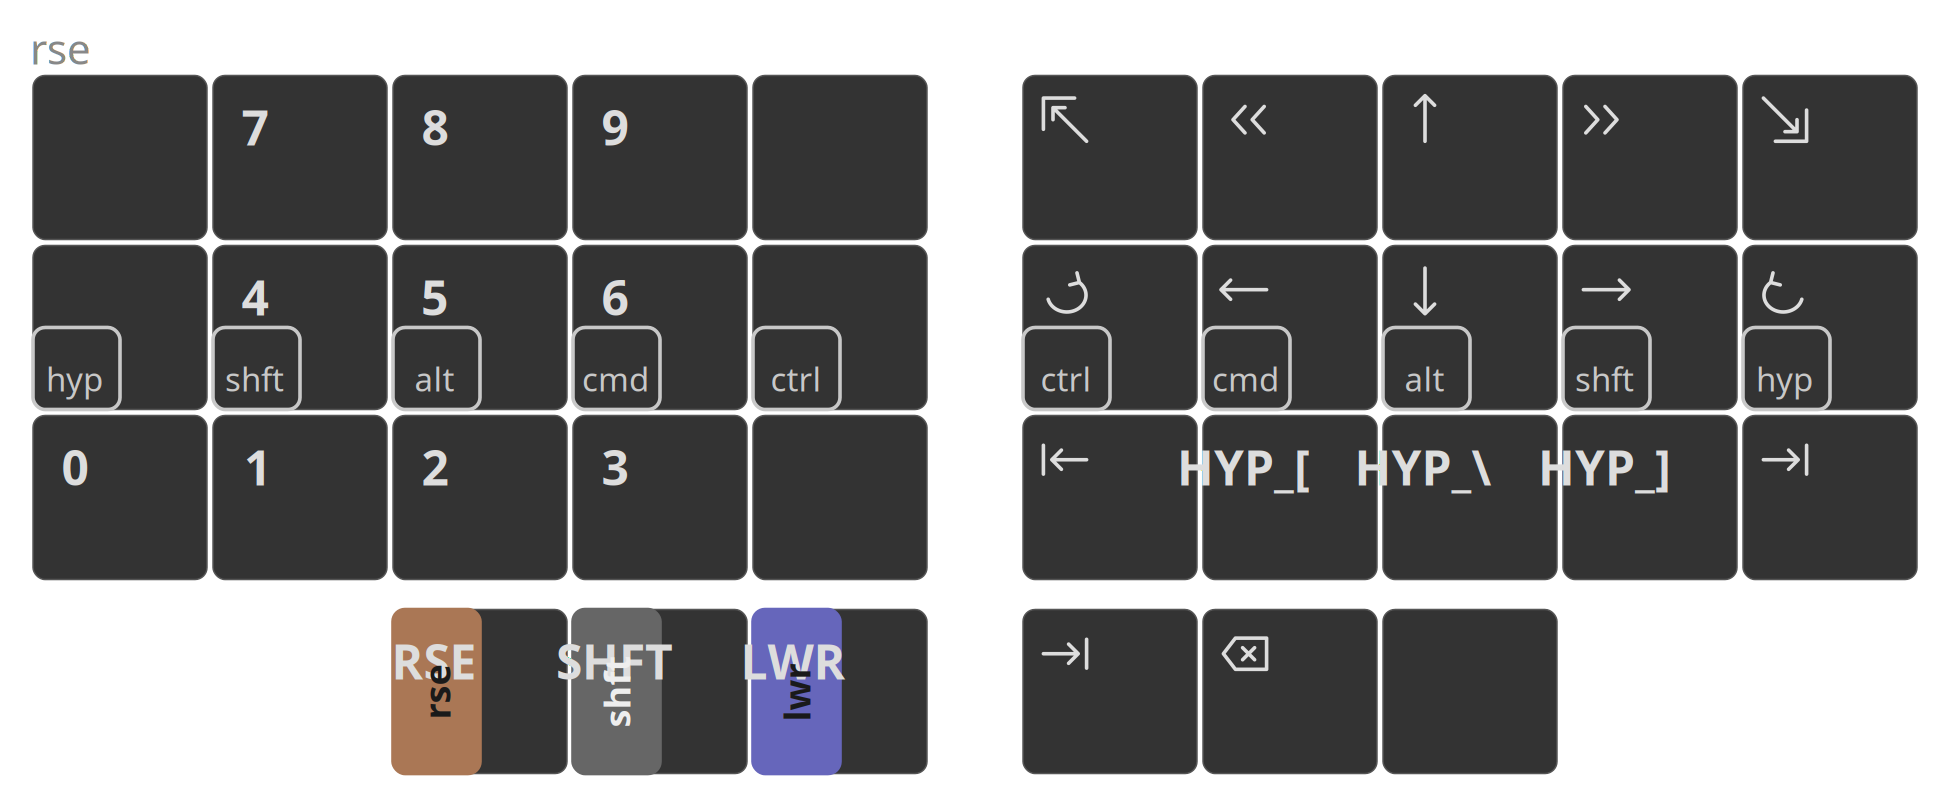
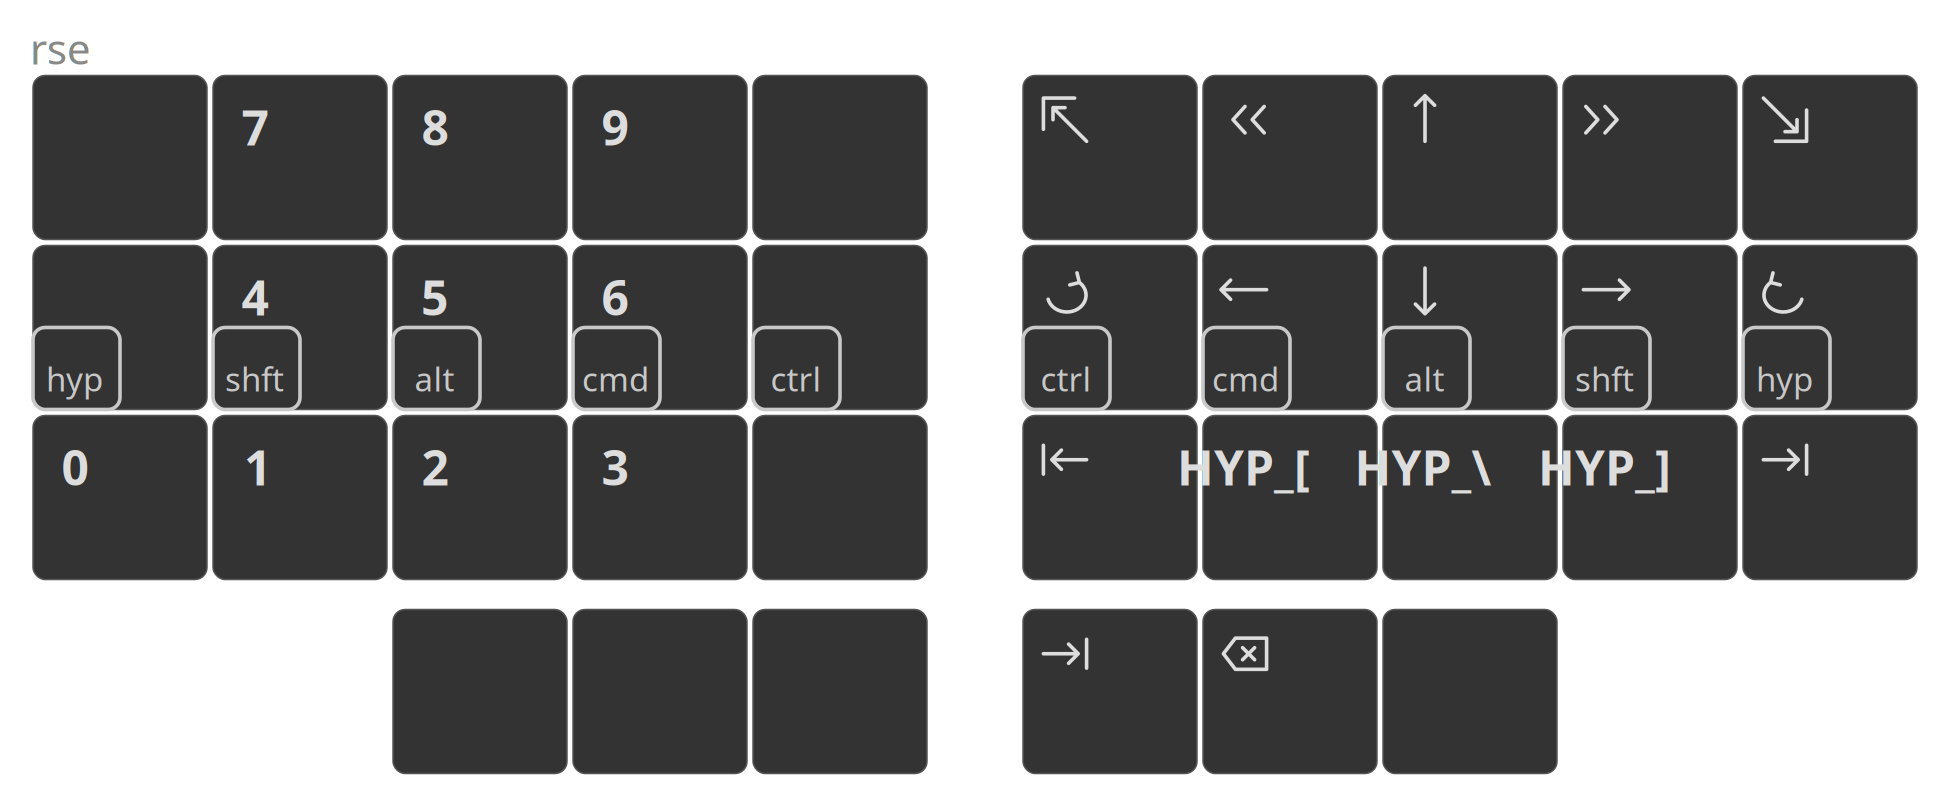
Drop sticky thumb repeats from non-base layers
Leave rse, shft, and lwr sticky bindings on the default layer only.
Blank the left thumbs on lwr and rse so those layers only redefine
the right-hand tap alternatives.

Changed region(s): [[0.3692, 0.7491, 0.4308, 0.9675], [0.2769, 0.7491, 0.3385, 0.9675], [0.1846, 0.7491, 0.2462, 0.9675]]

diff --git a/dubu36-ergo/qmk/dubu36ergo/keymaps/default/keymap.c b/dubu36-ergo/qmk/dubu36ergo/keymaps/default/keymap.c
@@ -12,13 +12,13 @@ OSL(1), OSM(MOD_LSFT), OSL(2), KC_ENT, KC_SPC, KC_NO
 KC_NO, KC_7, KC_8, KC_9, KC_NO, KC_HOME, A(KC_LEFT), KC_UP, A(KC_RIGHT), KC_END,
 MO(3), MT(MOD_LSFT,KC_4), MT(MOD_LALT,KC_5), MT(MOD_LGUI,KC_6), KC_LCTL, MT(MOD_LCTL,G(KC_LBRC)), MT(MOD_LGUI,KC_LEFT), MT(MOD_LALT,KC_DOWN), MT(MOD_LSFT,KC_RIGHT), LT(3,G(KC_RBRC)),
 KC_0, KC_1, KC_2, KC_3, KC_NO, G(S(KC_LBRC)), G(S(A(C(KC_LBRC)))), G(S(A(C(KC_BSLASH)))), G(S(A(C(KC_RBRC)))), G(S(KC_RBRC)),
-OSL(1), OSM(MOD_LSFT), OSL(2), KC_TAB, KC_BSPC, KC_NO
+KC_NO, KC_NO, KC_NO, KC_TAB, KC_BSPC, KC_NO
 	),
 	[2] = LAYOUT(
 KC_TILDE, KC_CIRCUMFLEX, KC_AT, KC_DOLLAR, KC_PERCENT, KC_AMPERSAND, KC_SLASH, KC_BSLASH, KC_PIPE, KC_GRAVE,
 LT(3,A(KC_U)), MT(MOD_LSFT,KC_LEFT_ANGLE_BRACKET), MT(MOD_LALT,KC_LBRC), MT(MOD_LGUI,KC_LEFT_PAREN), MT(MOD_LCTL,KC_LCBR), MT(MOD_LCTL,KC_MINUS), MT(MOD_LGUI,KC_UNDERSCORE), MT(MOD_LALT,KC_COLON), MT(MOD_LSFT,KC_SCOLON), LT(3,KC_HASH),
 KC_NO, KC_RIGHT_ANGLE_BRACKET, KC_RBRC, KC_RIGHT_PAREN, KC_RCBR, KC_PLUS, KC_EQUAL, KC_QUESTION, KC_EXCLAIM, KC_DOUBLE_QUOTE,
-OSL(1), OSM(MOD_LSFT), OSL(2), KC_ESC, A(KC_BSPC), KC_NO
+KC_NO, KC_NO, KC_NO, KC_ESC, A(KC_BSPC), KC_NO
 	)
 };
 
